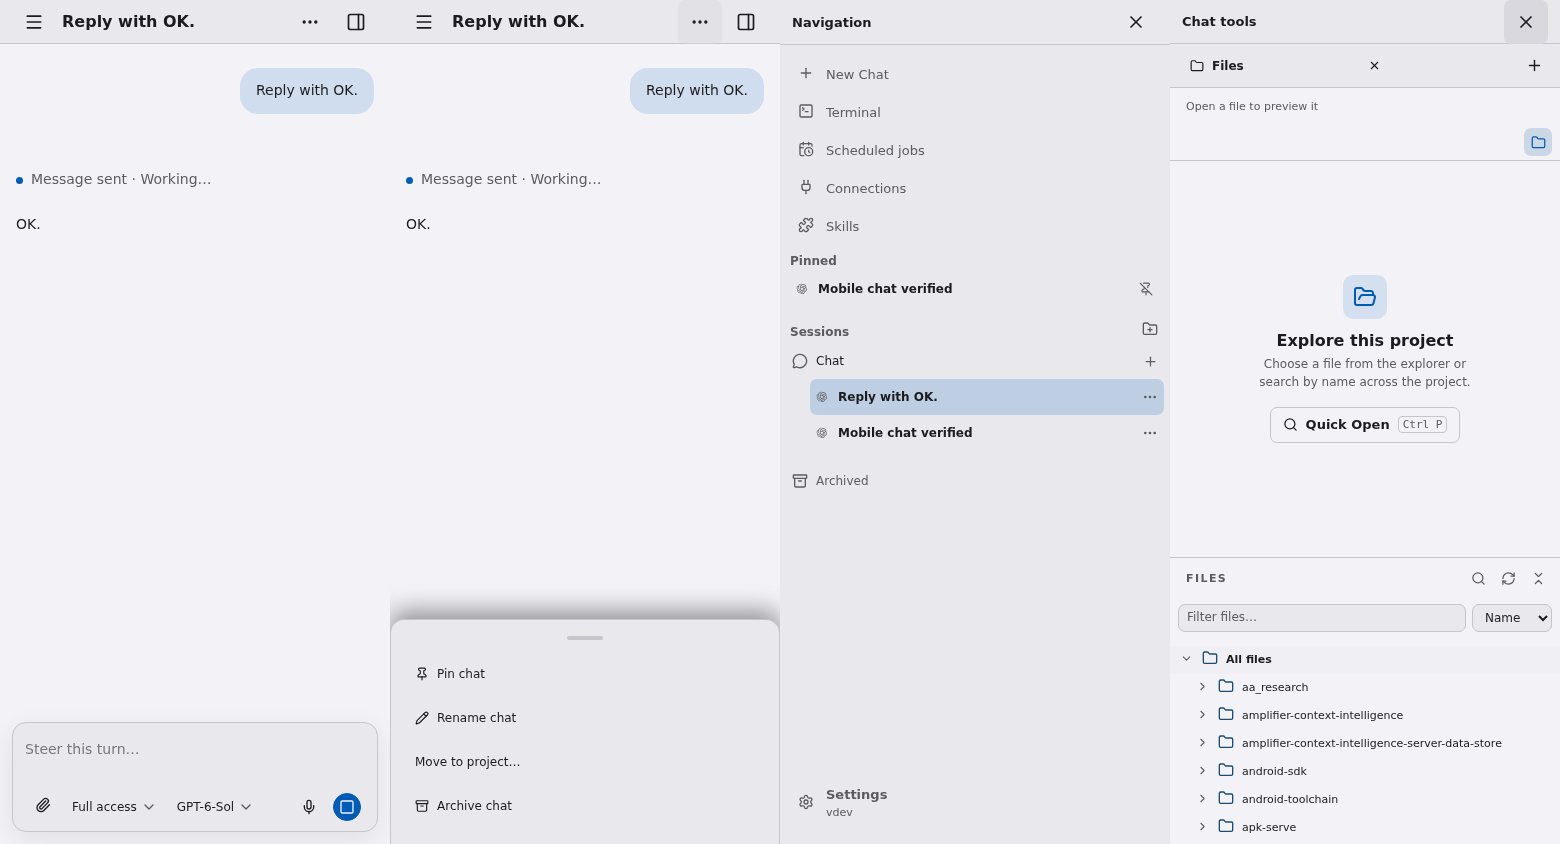
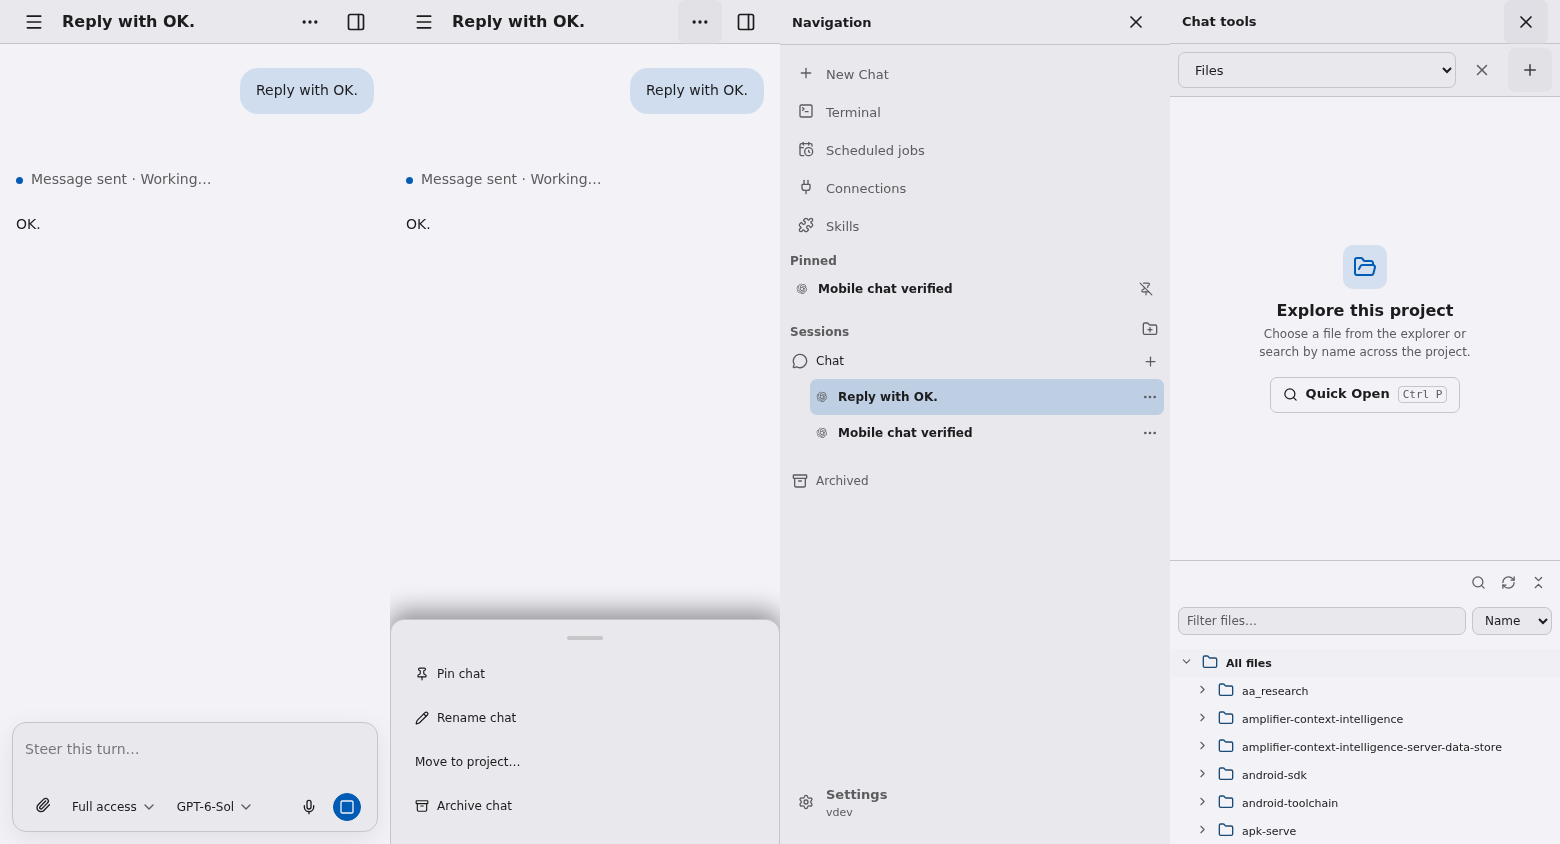
Use a mobile tool dropdown and simplify Files pane

diff --git a/web/src/components/mux-sdk-utility.ts b/web/src/components/mux-sdk-utility.ts
@@ -252,7 +252,7 @@ export class MuxSDKUtility extends LitElement {
   override render() {
     if (this.terminalMode) return html`<style>${this.surfaceCSS}</style><div class="terminal-files-header"><strong>Files</strong><mux-ui-button icon-only size="small" variant="quiet" tone="muted" accessible-label="Close file explorer" tooltip="Close file explorer" @click=${() => this.dispatchEvent(new CustomEvent('close',{bubbles:true,composed:true}))}>${icon(X,{size:16})}</mux-ui-button></div><div class="utility-body" aria-label="Files">${this.filesView()}</div>`;
     const tab = this.currentTab;
-    return html`<style>${this.surfaceCSS}</style><mux-ui-tab-strip accessible-label="Chat tools" .tabs=${this.tabs.map((item):TabStripItem => ({id:item.id,label:this.tabTitle(item),title:item.filePath || this.tabTitle(item),icon:icon(item.kind === 'files' && item.filePath ? fileGlyph(item.filePath) : TAB_GLYPHS[item.kind],{size:14})}))} .activeId=${tab.id} @tab-select=${(event:CustomEvent<{id:string}>) => this.selectTab(event.detail.id)} @tab-close=${(event:CustomEvent<{id:string}>) => this.closeTab(event.detail.id)} @tab-add=${() => this.addTab()}></mux-ui-tab-strip><div class="utility-body" role="tabpanel" aria-label=${this.tabTitle(tab)}>${tab.kind === 'new' ? this.newTabView() : tab.kind === 'files' ? this.filesView() : tab.kind === 'status' ? html`<mux-operator-status .sessionId=${this.sessionId}></mux-operator-status>` : tab.kind === 'changes' ? this.changesView() : tab.kind === 'goal' ? this.goalView() : tab.kind === 'browser' ? this.browserView(tab) : this.pagesView()}</div>`;
+    return html`<style>${this.surfaceCSS}</style><mux-ui-tab-strip accessible-label="Chat tools" .tabs=${this.tabs.map((item):TabStripItem => ({id:item.id,label:this.tabTitle(item),title:item.filePath || this.tabTitle(item),icon:icon(item.kind === 'files' && item.filePath ? fileGlyph(item.filePath) : TAB_GLYPHS[item.kind],{size:14})}))} .activeId=${tab.id} @tab-select=${(event:CustomEvent<{id:string}>) => this.selectTab(event.detail.id)} @tab-close=${(event:CustomEvent<{id:string}>) => this.closeTab(event.detail.id)} @tab-add=${() => this.addTab()}></mux-ui-tab-strip><div class="mobile-tab-picker"><mux-ui-select aria-label="Chat tools tab" .options=${this.tabs.map(item => ({value:item.id,label:this.tabTitle(item)}))} .value=${tab.id} @change=${(event:Event) => this.selectTab((event.target as MuxUISelect).value)}></mux-ui-select><mux-ui-button icon-only size="large" variant="quiet" tone="muted" accessible-label=${`Close ${this.tabTitle(tab)} tab`} tooltip="Close tab" @click=${() => this.closeTab(tab.id)}>${icon(X,{size:18})}</mux-ui-button><mux-ui-button icon-only size="large" variant="quiet" tone="muted" accessible-label="New tab" tooltip="New tab" @click=${() => this.addTab()}>${icon(Plus,{size:18})}</mux-ui-button></div><div class="utility-body" role="tabpanel" aria-label=${this.tabTitle(tab)}>${tab.kind === 'new' ? this.newTabView() : tab.kind === 'files' ? this.filesView() : tab.kind === 'status' ? html`<mux-operator-status .sessionId=${this.sessionId}></mux-operator-status>` : tab.kind === 'changes' ? this.changesView() : tab.kind === 'goal' ? this.goalView() : tab.kind === 'browser' ? this.browserView(tab) : this.pagesView()}</div>`;
   }
   private tabTitle(tab: UtilityTab): string {
     if (tab.kind === 'new') return 'New tab';
@@ -849,7 +849,7 @@ export class MuxSDKUtility extends LitElement {
     ] : [];
     return html`<div class="viewer-header">
       ${this.terminalMode ? html`<mux-ui-button icon-only size="small" variant="quiet" tone="muted" accessible-label="Back to files" tooltip="Back to files" @click=${() => this.backToTerminalFiles()}>${icon(ArrowLeft,{size:15})}</mux-ui-button>` : nothing}
-      <mux-ui-breadcrumb label="Open file path" placeholder="Open a file to preview it" .items=${pathItems} @breadcrumb-navigate=${(event:CustomEvent<{id:string}>) => void this.navigateFileBreadcrumb(event.detail.id)}></mux-ui-breadcrumb>
+      ${this.selected ? html`<mux-ui-breadcrumb label="Open file path" .items=${pathItems} @breadcrumb-navigate=${(event:CustomEvent<{id:string}>) => void this.navigateFileBreadcrumb(event.detail.id)}></mux-ui-breadcrumb>` : nothing}
       <div class="file-header-actions">
         ${file && !this.terminalMode ? html`<mux-ui-button icon-only size="small" variant="quiet" tone="muted" accessible-label="Ask about file" tooltip="Ask about file" @click=${() => this.askAboutFile()}>${icon(MessageCircleQuestionMark,{size:15})}</mux-ui-button>` : nothing}
         ${hasAlternateView ? html`<mux-ui-button class="file-action-button" size="small" variant="secondary" accessible-label=${this.fileMode === 'preview' ? 'View source' : 'View preview'} @click=${() => this.toggleFileMode()}>${icon(Code2,{size:14})}<span>${this.fileMode === 'preview' ? 'View source' : 'View preview'}</span></mux-ui-button>` : nothing}
@@ -881,7 +881,7 @@ export class MuxSDKUtility extends LitElement {
       if ((event.ctrlKey || event.metaKey) && event.key.toLowerCase() === 'p') { event.preventDefault(); this.showQuickOpen(); }
       if (event.key === 'Escape' && !this.quickOpen && this.fileMenuOpen) { this.fileMenuOpen = false; this.paintAll(); queueMicrotask(() => this.querySelector<MuxUIButton>('.file-open-button')?.focus()); }
     }}>
-      ${!this.terminalMode ? this.fileHeader(projectName, segments, file, hasAlternateView) : nothing}
+      ${!this.terminalMode && (this.selected || !this.filesRailOpen) ? this.fileHeader(projectName, segments, file, hasAlternateView) : nothing}
       <div class="viewer">
         ${this.terminalMode ? this.fileHeader(projectName, segments, file, hasAlternateView) : nothing}
         <div class="viewer-body">${this.selected ? this.fileBody() : html`<mux-ui-empty-state heading="Explore this project"><span slot="icon">${icon(FolderOpen,{size:24})}</span>Choose a file from the explorer or search by name across the project.<mux-ui-button slot="action" variant="secondary" @click=${() => this.showQuickOpen()}>${icon(Search,{size:15})} Quick Open <kbd>Ctrl P</kbd></mux-ui-button></mux-ui-empty-state>`}</div>
@@ -889,7 +889,7 @@ export class MuxSDKUtility extends LitElement {
       </div>
       ${this.filesRailOpen ? html`<div class="vertical-resizer" role="separator" aria-label="Resize file explorer" aria-orientation="vertical" tabindex="0" @pointerdown=${(event: PointerEvent) => this.startRailResize(event,'files')} @pointermove=${(event: PointerEvent) => this.moveRailResize(event)} @pointerup=${(event: PointerEvent) => this.endRailResize(event)} @lostpointercapture=${(event: PointerEvent) => this.endRailResize(event)} @keydown=${(event: KeyboardEvent) => this.keyRailResize(event,'files')}></div>` : nothing}
       ${this.filesRailOpen ? html`<div class="browser">
-        <div class="browser-heading"><div class="explorer-label">FILES</div><div class="explorer-actions"><mux-ui-button icon-only size="small" variant="quiet" tone="muted" accessible-label="Quick open file" tooltip="Quick Open · Ctrl+P" @click=${() => this.showQuickOpen()}>${icon(Search,{size:15})}</mux-ui-button><mux-ui-button icon-only size="small" variant="quiet" tone="muted" accessible-label="Refresh file tree" tooltip="Refresh file tree" @click=${() => void this.refreshTree()}>${icon(RefreshCw,{size:15})}</mux-ui-button><mux-ui-button icon-only size="small" variant="quiet" tone="muted" accessible-label="Collapse folders" tooltip="Collapse folders" @click=${() => { this.expandedDirs = new Set(['.']); this.paintAll(); }}>${icon(ChevronsDownUp,{size:15})}</mux-ui-button></div></div>
+        <div class="browser-heading"><div class="explorer-actions"><mux-ui-button icon-only size="small" variant="quiet" tone="muted" accessible-label="Quick open file" tooltip="Quick Open · Ctrl+P" @click=${() => this.showQuickOpen()}>${icon(Search,{size:15})}</mux-ui-button><mux-ui-button icon-only size="small" variant="quiet" tone="muted" accessible-label="Refresh file tree" tooltip="Refresh file tree" @click=${() => void this.refreshTree()}>${icon(RefreshCw,{size:15})}</mux-ui-button><mux-ui-button icon-only size="small" variant="quiet" tone="muted" accessible-label="Collapse folders" tooltip="Collapse folders" @click=${() => { this.expandedDirs = new Set(['.']); this.paintAll(); }}>${icon(ChevronsDownUp,{size:15})}</mux-ui-button></div></div>
         <div class="browser-tools"><mux-ui-text-field size="small" type="search" aria-label="Filter visible files" placeholder="Filter files…" .value=${this.fileQuery} @input=${(event: InputEvent) => { this.fileQuery = (event.target as MuxUITextField).value; this.paintAll(); }}></mux-ui-text-field><mux-ui-select size="small" aria-label="Sort files" .value=${this.fileSort} .options=${[{value:'name',label:'Name'},{value:'recent',label:'Recent'},{value:'size',label:'Size'}]} @change=${(event: Event) => { this.fileSort = (event.target as MuxUISelect).value as typeof this.fileSort; this.paintAll(); }}></mux-ui-select></div>
         ${this.touched.length ? html`<div class="touched-files"><h3>Changed files <span>${this.touched.length}</span></h3>${this.touched.map(path => html`<mux-ui-rail-row reserve-chevron label=${path} tooltip=${path} @click=${() => void this.revealFile(path)}><span slot="icon">${icon(fileGlyph(path),{size:14})}</span></mux-ui-rail-row>`)}</div>` : nothing}
         <div class="file-list" role="tree" aria-label=${this.terminalMode ? 'Home files' : 'Project files'} @keydown=${(event: KeyboardEvent) => this.onTreeKey(event)}>
@@ -1068,6 +1068,8 @@ export class MuxSDKUtility extends LitElement {
     mux-sdk-utility *::-webkit-scrollbar-track { background:transparent; }
     mux-sdk-utility *::-webkit-scrollbar-thumb { background:color-mix(in srgb,var(--ui-text-muted) 34%,transparent); border-radius:var(--ui-radius-pill); }
     mux-sdk-utility *::-webkit-scrollbar-thumb:hover { background:color-mix(in srgb,var(--ui-text-muted) 58%,transparent); }
+    mux-sdk-utility .mobile-tab-picker { display:none; }
+    @media(max-width:767.98px) { mux-sdk-utility mux-ui-tab-strip { display:none; } mux-sdk-utility .mobile-tab-picker { box-sizing:border-box; display:flex; align-items:center; flex:none; gap:var(--ui-space-2); min-height:var(--ui-nav-height); padding:var(--ui-space-2) var(--ui-space-4); border-bottom:1px solid var(--ui-border); } mux-sdk-utility .mobile-tab-picker mux-ui-select { flex:1; min-width:0; } }
     mux-sdk-utility .new-tab-surface { box-sizing:border-box; width:100%; height:100%; padding:var(--ui-space-9) 0; background:var(--ui-surface-base); container-type:inline-size; }
     mux-sdk-utility .new-tab-home { width:min(var(--ui-utility-home-width),calc(100% - var(--ui-utility-home-gutter))); margin:0 auto; }
     mux-sdk-utility .new-tab-home h2 { margin:0 0 var(--ui-space-6); color:var(--ui-text); font:600 var(--ui-text-lg)/1.3 var(--ui-font-sans); }
@@ -1096,15 +1098,18 @@ export class MuxSDKUtility extends LitElement {
     mux-sdk-utility .utility-placeholder { display:flex; align-items:center; justify-content:center; width:100%; height:100%; color:var(--ui-text-muted); }
     mux-sdk-utility .empty { color:var(--ui-text-muted); line-height:1.6; } mux-sdk-utility a { color:var(--ui-accent); }
     mux-sdk-utility .files-panel, mux-sdk-utility .changes-panel, mux-sdk-utility .pages-panel { display:grid; grid-template-columns:clamp(var(--ui-utility-rail-min-width),var(--rail-width),45%) var(--ui-utility-rail-resizer-width) minmax(0,1fr); height:100%; min-width:0; overflow:hidden; position:relative; background:var(--ui-surface-base); }
-    mux-sdk-utility .files-panel { grid-template-columns:minmax(0,1fr) 6px clamp(180px,var(--rail-width),45%); grid-template-rows:auto minmax(0,1fr); }
+    mux-sdk-utility .files-panel { grid-template-columns:minmax(0,1fr) 1px clamp(180px,var(--rail-width),45%); grid-template-rows:auto minmax(0,1fr); }
     mux-sdk-utility .files-panel.rail-closed { grid-template-columns:minmax(0,1fr); }
     mux-sdk-utility .files-panel > .viewer-header { grid-column:1 / -1; grid-row:1; }
     mux-sdk-utility .files-panel > .viewer { grid-column:1; grid-row:2; }
-    mux-sdk-utility .files-panel > .vertical-resizer { grid-column:2; grid-row:2; }
+    mux-sdk-utility .files-panel > .vertical-resizer { grid-column:2; grid-row:2; z-index:var(--ui-z-local); width:var(--ui-chat-resize-handle-width); margin-left:calc(-.5 * (var(--ui-chat-resize-handle-width) - 1px)); background:transparent; }
+    mux-sdk-utility .files-panel > .vertical-resizer::after { content:''; position:absolute; top:0; bottom:0; left:calc(.5 * (var(--ui-chat-resize-handle-width) - 1px)); width:1px; background:var(--ui-border); pointer-events:none; }
+    mux-sdk-utility .files-panel > .vertical-resizer:hover, mux-sdk-utility .files-panel > .vertical-resizer:focus-visible { background:transparent; }
+    mux-sdk-utility .files-panel > .vertical-resizer:hover::after, mux-sdk-utility .files-panel > .vertical-resizer:focus-visible::after { background:var(--ui-accent); }
     mux-sdk-utility .files-panel > .browser { grid-column:3; grid-row:2; }
     mux-sdk-utility .browser { display:flex; flex-direction:column; min-width:0; min-height:0; background:color-mix(in srgb,var(--ui-surface-base) 78%,var(--ui-surface-raised)); }
-    mux-sdk-utility .files-panel .browser { border-left:1px solid var(--ui-border); background:var(--ui-surface-base); }
-    mux-sdk-utility .files-panel .browser-heading { height:var(--ui-utility-file-header-height); flex:none; }
+    mux-sdk-utility .files-panel .browser { background:var(--ui-surface-base); }
+    mux-sdk-utility .files-panel .browser-heading { height:var(--ui-utility-file-header-height); flex:none; justify-content:flex-end; }
     mux-sdk-utility .browser-heading { display:flex; align-items:center; justify-content:space-between; gap:var(--ui-space-4); height:var(--ui-utility-browser-heading-height); padding:0 var(--ui-space-4) 0 var(--ui-space-6); }
     mux-sdk-utility .explorer-label { color:var(--ui-text-muted); font:600 var(--ui-text-xs) var(--ui-font-sans); letter-spacing:.13em; }
     mux-sdk-utility .explorer-actions { display:flex; align-items:center; gap:var(--ui-space-1); }
@@ -1128,7 +1133,7 @@ export class MuxSDKUtility extends LitElement {
     mux-sdk-utility .goal-toolbar-actions { display:flex; flex-wrap:wrap; gap:var(--ui-space-2); }
     mux-sdk-utility mux-ui-feedback.goal-feedback { margin:var(--ui-space-3) var(--ui-space-6) 0; }
     mux-sdk-utility .viewer-header { display:flex; align-items:center; gap:var(--ui-space-4); flex:none; min-height:var(--ui-utility-file-header-height); box-sizing:border-box; border-bottom:1px solid var(--ui-border); padding:var(--ui-space-1) var(--ui-space-4) var(--ui-space-1) var(--ui-space-6); background:transparent; }
-    mux-sdk-utility .file-header-actions { display:flex; align-items:center; gap:var(--ui-space-3); flex:none; }
+    mux-sdk-utility .file-header-actions { display:flex; align-items:center; gap:var(--ui-space-3); flex:none; margin-left:auto; }
     mux-sdk-utility .file-open-wrap { position:relative; }
     mux-sdk-utility .file-open-menu { --ui-menu-offset-y:calc(var(--ui-control-sm) + var(--ui-space-1)); --ui-menu-offset-x:0; --ui-menu-width:var(--ui-toast-min-width); }
     mux-sdk-utility .file-open-menu svg { flex:none; color:var(--ui-text-muted); }
